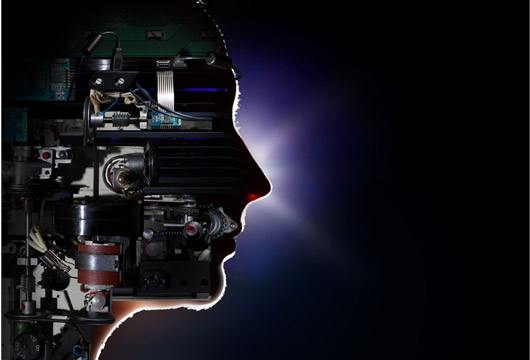
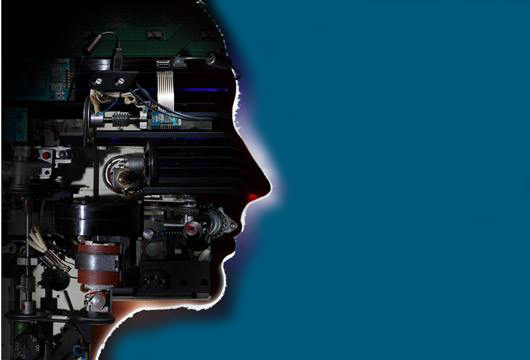
界面整改

diff --git a/src/wh/GUI/UserUI.java b/src/wh/GUI/UserUI.java
@@ -481,6 +481,8 @@ public class UserUI extends JFrame{
 		jframe.add(jpanel,BorderLayout.NORTH);
 		jframe.add(jpanel2,BorderLayout.SOUTH);
 		// jframe.setBackground(Color.black);    
+		jframe.getContentPane().setBackground(new Color(0,88,122)); 
+		jframe.getContentPane().setVisible(true  );
 		jframe.setVisible(true);
 		jframe.setLayout(new FlowLayout());
 		//jframe.setUndecorated(false);

diff --git a/src/wh/GUI/WhaddUI.java b/src/wh/GUI/WhaddUI.java
@@ -300,7 +300,7 @@ public class WhaddUI {
 	
 	
 	
-	/*public static void main(String[] args){
+	public static void main(String[] args){
 		new WhaddUI();
-	}*/
+	}
 }
